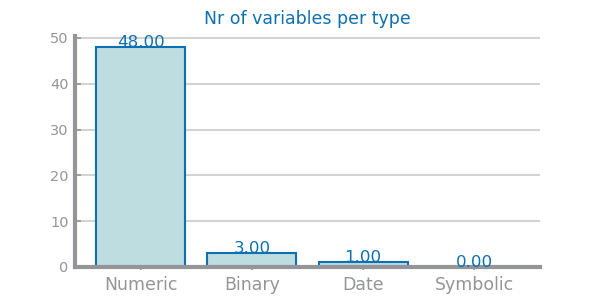
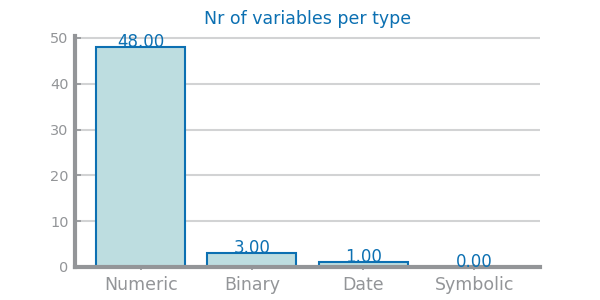
Eval1 graficos

diff --git a/Distribution/scriptPiazza.py b/Distribution/scriptPiazza.py
@@ -1,0 +1,111 @@
+#%%
+from pandas import read_csv, Series
+from pandas.plotting import register_matplotlib_converters
+from matplotlib.pyplot import figure, savefig, show, subplots, Axes
+from ds_charts import bar_chart, get_variable_types, choose_grid, HEIGHT, multiple_bar_chart, multiple_line_chart
+from seaborn import distplot
+from scipy.stats import norm, expon, lognorm
+from numpy import log
+import numpy as np
+import random
+import pandas as pd
+
+
+register_matplotlib_converters()
+filename = '../drought.csv'
+#filename = '../diabetic_data.csv'
+#data = read_csv(filename, index_col='encounter_id', na_values='')
+data = read_csv(filename, parse_dates=['date'], infer_datetime_format=True)
+#pandas dataframe
+
+
+
+
+
+#Salva o array como uma lista e ? cria um dicionario
+def compute_known_distributions(x_values: list) -> dict:
+    distributions = dict()
+
+    # Gaussian
+    mean, sigma = norm.fit(x_values)
+    # MÃ©dia e desvio padrÃ£o da amostra (numpy.float64)
+
+    x_values = x_values.tolist()
+
+    random.shuffle(x_values)
+
+    x_values = x_values[0:1000]
+
+    x_values.sort()
+
+    #x_values = series.sort_values().values
+
+
+    distributions['Normal(%.1f,%.2f)'%(mean,sigma)] = norm.pdf(x_values, mean, sigma)
+
+
+
+    # Exponential
+    loc, scale = expon.fit(x_values)
+    distributions['Exp(%.2f)'%(1/scale)] = expon.pdf(x_values, loc, scale)
+    #LogNorm
+    sigma, loc, scale = lognorm.fit(x_values)
+    distributions['LogNor(%.1f,%.2f)'%(log(scale),sigma)] = lognorm.pdf(x_values, sigma, loc, scale)
+
+
+
+    return distributions, x_values
+
+
+
+#Recebe a posiÃ§Ã£o (i, j), os dados da variÃ¡vel salva em "data", e o nome da variÃ¡vel
+def histogram_with_distributions(ax: Axes, series: Series, var: str):
+
+   
+    values = series.sort_values().values
+    # Array do numpy
+    
+    ax.hist(values, 20, density=True)
+    #plota o histograma com base nos valores recebidos. Adota bins=20
+
+    #Chama a funÃ§Ã£o "compute_known_distributions" enviando o array no numpy (valores)
+    distributions, values = compute_known_distributions(values)
+
+
+    #Adiciona a distribuiÃ§Ã£o
+    multiple_line_chart(values, distributions, ax=ax, title='Best fit for %s'%var, xlabel=var, ylabel='')
+    
+    print("1 more done")
+
+
+
+#distribution for numeric
+
+
+
+numeric_vars = get_variable_types(data)['Numeric']
+#list
+
+
+if [] == numeric_vars:
+    raise ValueError('There are no numeric variables.')
+
+
+rows, cols = choose_grid(len(numeric_vars))
+#escolhe a quantidade de linhas e colunas para os grÃ¡ficos
+
+fig, axs = subplots(rows, cols, figsize=(cols*HEIGHT, rows*HEIGHT), squeeze=False)
+#parÃ¢metros do matplotlib
+
+i, j = 0, 0 #Contadores
+for n in range(len(numeric_vars)):
+
+    #Chama a funÃ§Ã£o "histogram_with_distributions"
+    histogram_with_distributions(axs[i, j], data[numeric_vars[n]].dropna(), numeric_vars[n])
+    #Envia a posiÃ§Ã£o (i, j), os dados da variÃ¡vel salva em "data", e o nome da variÃ¡vel
+
+    i, j = (i + 1, 0) if (n+1) % cols == 0 else (i, j + 1) #Altera o contador
+
+savefig('imageD2/histogram_numeric_distribution1000.png') # salva
+show()
+# %%

diff --git a/Distribution/dataset1.py b/Distribution/dataset1.py
@@ -6,11 +6,11 @@ from matplotlib.pyplot import subplots, savefig, show, Axes
 from seaborn import distplot
 from pandas import Series
 from scipy.stats import norm, expon, lognorm
-from numpy import log
+from numpy import log,unique
 
 filename = '../diabetic_data.csv'
 data = pd.read_csv(filename)
-
+'''
 data.boxplot(rot=45)
 savefig('imageD1/global_boxplot.png')
 show()
@@ -88,10 +88,9 @@ for n in range(len(numeric_vars)):
     distplot(data[numeric_vars[n]].dropna().values, norm_hist=True, ax=axs[i, j], axlabel=numeric_vars[n])
     i, j = (i + 1, 0) if (n+1) % cols == 0 else (i, j + 1)
 savefig('imageD1/histograms_trend_numeric.png')
-show()
+show()'''
 
 
-'''
 def compute_known_distributions(x_values: list) -> dict:
     distributions = dict()
     # Gaussian
@@ -115,15 +114,19 @@ numeric_vars = get_variable_types(data)['Numeric']
 if [] == numeric_vars:
     raise ValueError('There are no numeric variables.')
 
+rows, cols = choose_grid(len(numeric_vars))
 fig, axs = subplots(rows, cols, figsize=(cols*HEIGHT, rows*HEIGHT), squeeze=False)
 i, j = 0, 0
+
+
 for n in range(len(numeric_vars)):
     histogram_with_distributions(axs[i, j], data[numeric_vars[n]].dropna(), numeric_vars[n])
     i, j = (i + 1, 0) if (n+1) % cols == 0 else (i, j + 1)
     print(numeric_vars[n])
 savefig('imageD1/histogram_numeric_distribution.png')
-show()'''
+show()
 
+'''
 symbolic_vars = get_variable_types(data)['Symbolic']
 if [] == symbolic_vars:
     raise ValueError('There are no symbolic variables.')
@@ -150,5 +153,5 @@ for n in range(len(class1)):
     bar_chart(counts.index.to_list(), counts.values, ax=axs[i, j], title='Histogram for %s'%class1[n], xlabel=class1[n], ylabel='nr records', percentage=False)
     i, j = (i + 1, 0) if (n+1) % cols == 0 else (i, j + 1)
 savefig('imageD1/class_distribution_.png')
-show()
+show()'''
 # %%

diff --git a/Dimensionality/dataset2Dimensionality.py b/Dimensionality/dataset2Dimensionality.py
@@ -5,7 +5,7 @@ from ds_charts import bar_chart, get_variable_types
 from pandas import DataFrame
 
 
-data = pd.read_csv("./drought.csv", na_values='', parse_dates=True, infer_datetime_format=True)
+data = pd.read_csv("../drought.csv", na_values='-1', parse_dates=True, infer_datetime_format=True)
 data['date'] = pd.to_datetime(data['date'],format = '%d/%m/%Y')
 
 pd.plotting.register_matplotlib_converters()
@@ -27,16 +27,16 @@ figure(figsize=(4,2))
 bar_chart(list(counts.keys()), list(counts.values()), title='Nr of variables per type')
 savefig('imageDataset2/variable_types.png')
 show()
-'''
+
 mv = {}
 for var in data:
     nr = data[var].isna().sum()
     if nr > 0:
         mv[var] = nr
 
-figure()
+figure(figsize=(4,2))
 bar_chart(list(mv.keys()), list(mv.values()), title='Nr of missing values per variable',
             xlabel='variables', ylabel='nr missing values', rotation=True)
 savefig('imageDataset2/mv.png')
-show()'''
+show()
 # %%
